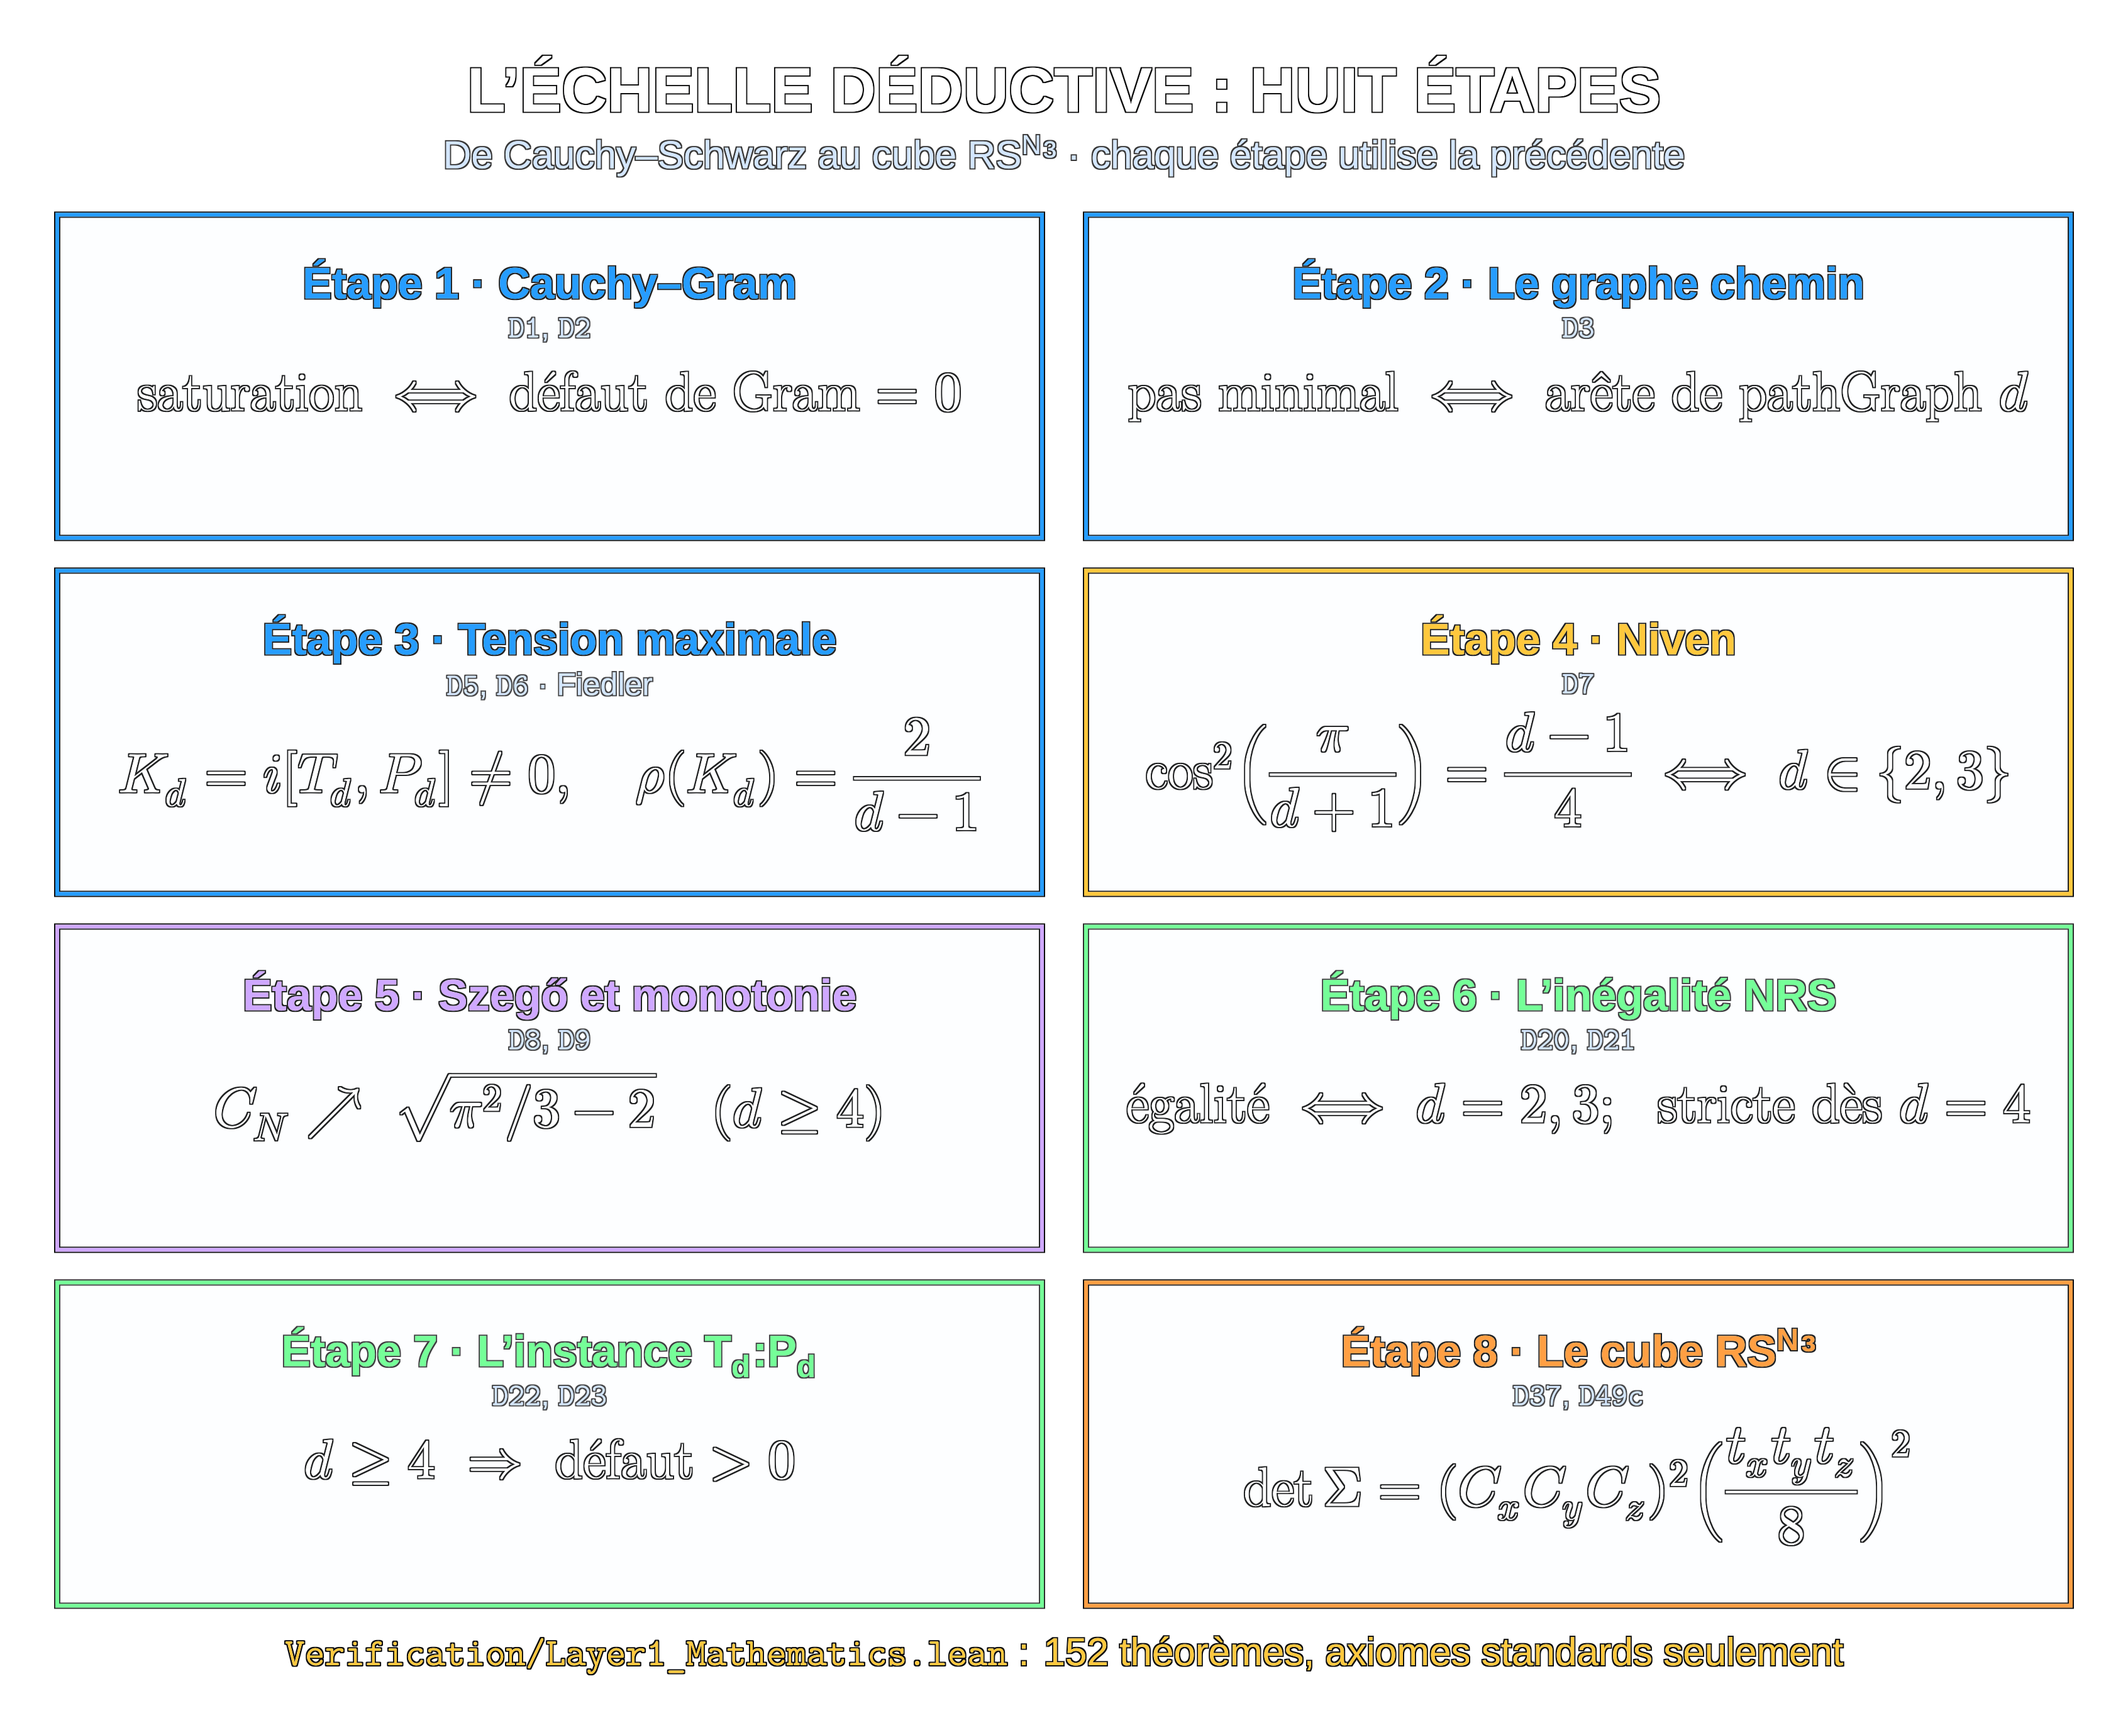
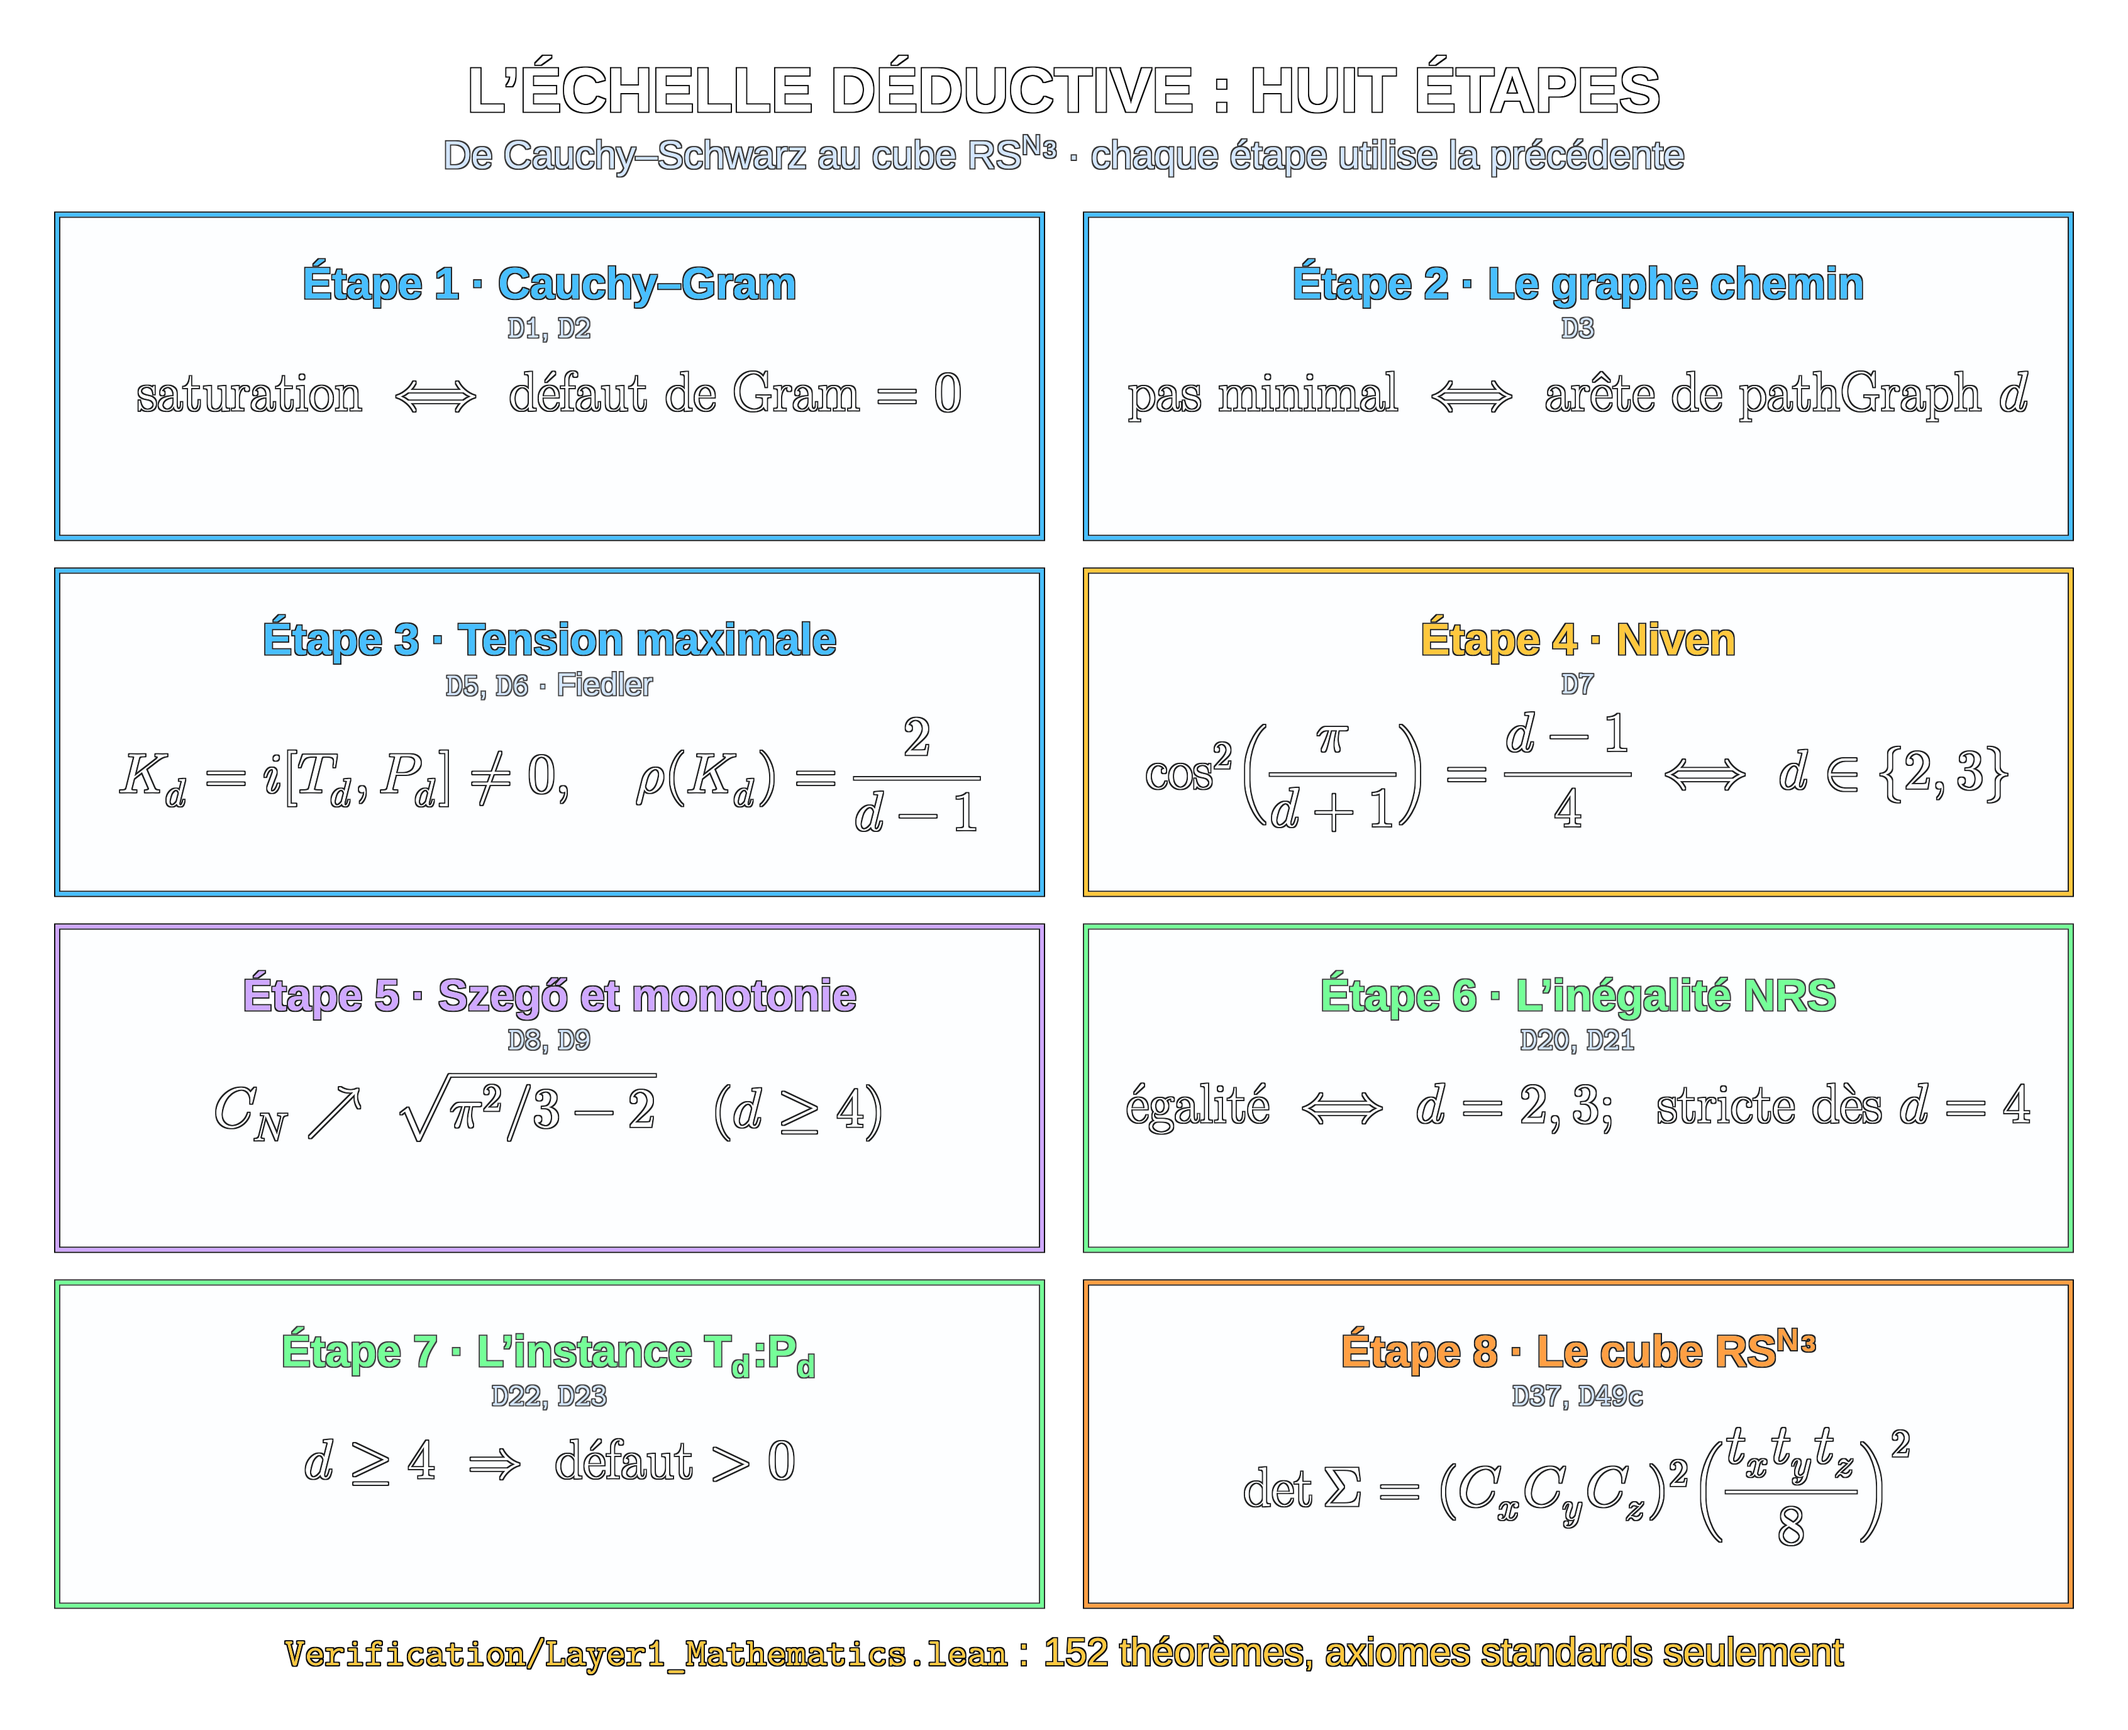
style(dark): match exact signature copper-sulfate blue (#48BFFF) with dark bevel

diff --git a/README.md b/README.md
@@ -126,7 +126,7 @@ La chaîne est celle des fichiers `D1` → `D23` : Cauchy–Gram, Robertson, gra
 
 ---
 
-### Étape 8 : Le cube RS^N³
+### Étape 8 : Le cube RS<sup>N</sup>³
 
 > **Théorème 8.1.** Sur le cube Hd_x ⊗ Hd_y ⊗ Hd_z, les observables d’axes différents commutent. Dans l’état de courant maximal du cube, chaque axe sature si et seulement s’il a 2 ou 3 positions, et la relation est stricte sur les trois axes dès d_x, d_y, d_z ≥ 4. Le déterminant de covariance des six observables vaut (C_N(d_x) C_N(d_y) C_N(d_z))² (t_x t_y t_z / 8)², où t est la tension de chaque axe ; l’angle NRS vérifie cos θ_NRS(d) = 1/C_N(d), et le quantum volumétrique est δ(d_x) δ(d_y) δ(d_z).
 
